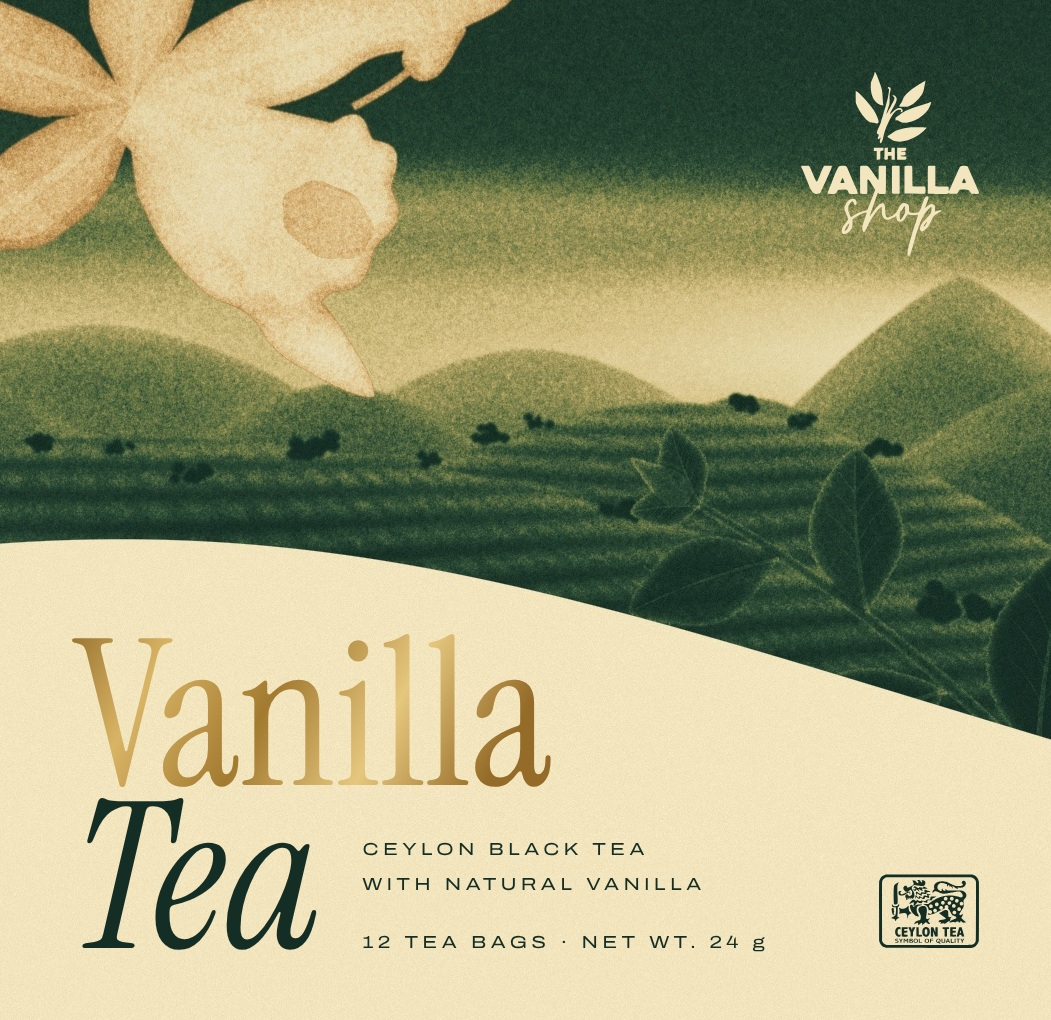
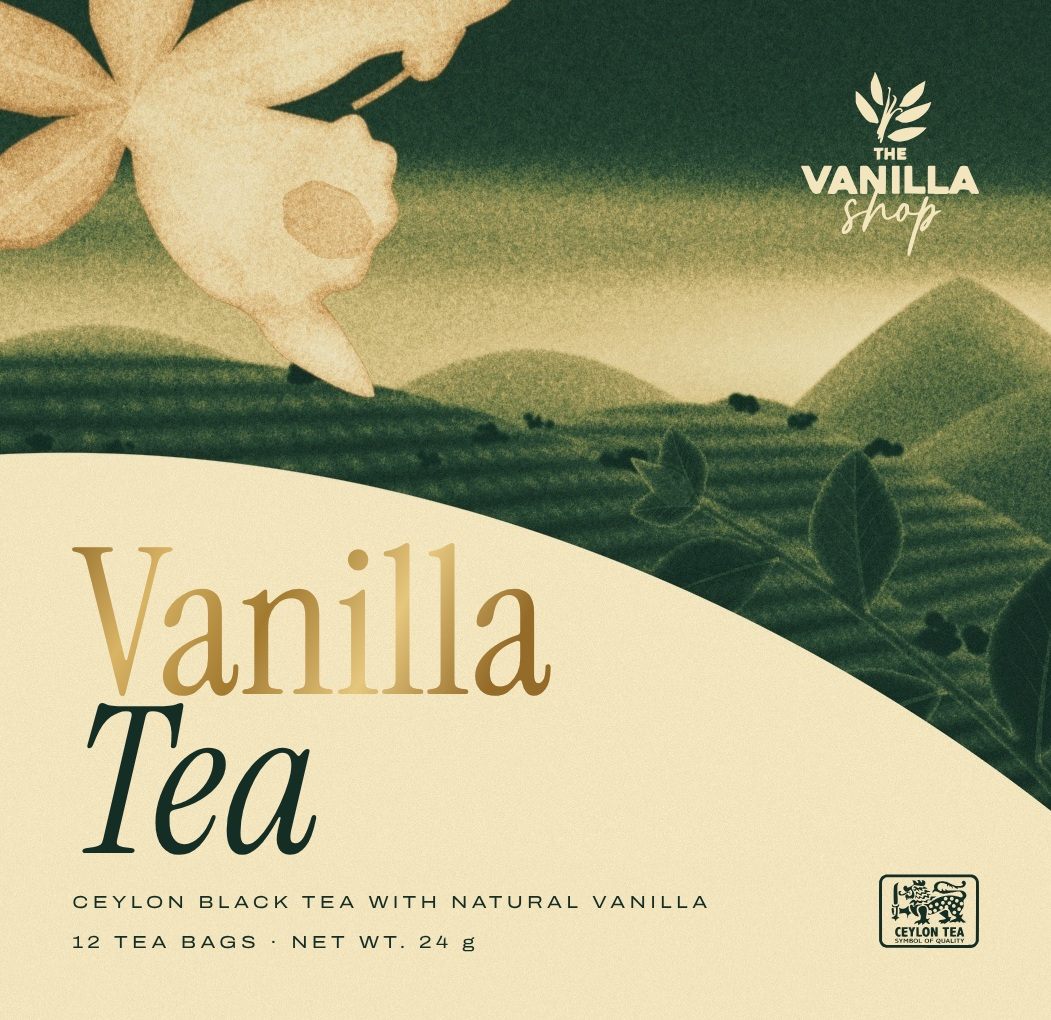
Tea: a longer, friendlier curve shaped around the stacked name
The cream's edge starts higher on the left and sweeps down to the lower
right, after the reference; the stacked name sits under its shoulder with
at least 2.4 mm clear, the description and contents in two full-width lines
below, the lion on the bottom baseline. The near hill's rows follow it.

Claude-Session: https://claude.ai/code/session_01Psd6wLDi15Gf4F1fXEFmxS

diff --git a/vanilla-shop/studies/tea/bandsystem/estate_front.py b/vanilla-shop/studies/tea/bandsystem/estate_front.py
@@ -16,7 +16,7 @@ GREEN='#163F3D'; CREAM='#F4EEDF'
 LEAF=('<linearGradient id="leaf" x1="0" y1="0" x2="1" y2="0.3"><stop offset="0" stop-color="#8A6424"/><stop offset=".25" stop-color="#D9B465"/>'
       '<stop offset=".5" stop-color="#A27A30"/><stop offset=".75" stop-color="#E6C77E"/><stop offset="1" stop-color="#946B28"/></linearGradient>')
 def ss(t): t=np.clip(t,0,1); return t*t*(3-2*t)
-EDGE=np.array([(-3,45.5),(30,42.5),(52,51),(90.6,62.5)])                                       # one cubic sweep, like a hill's shoulder
+EDGE=np.array([(-3,38),(30,35.5),(64,48),(90.6,70)])                                           # high and calm over the name, a long sweep down to the right                                       # one cubic sweep, like a hill's shoulder
 _t=np.linspace(0,1,600)[:,None]; _c=(1-_t)**3*EDGE[0]+3*(1-_t)**2*_t*EDGE[1]+3*(1-_t)*_t**2*EDGE[2]+_t**3*EDGE[3]
 def edge(x):
     """face-mm y of the cream's top edge: high and level under the logo, falling away smoothly to the right"""
@@ -42,14 +42,13 @@ def overlay(x=8,top=False):
     lw=15.0; s_=lw/933; ink=lambda v:v*s_                                                       # logo ink: 6..927.6 x 6.3..957.9 of 933 x 963
     lg=f'<g transform="translate({FW-M-ink(927.6)+ink(0):.3f} {M-ink(6.3):.3f})">{logo(lw/2,963*s_/2,lw,CREAM)}</g>'
     ln=8.4; sl=ln/1211; lnx=FW-M-1206*sl; lny=base-890*sl                                          # lion ink: 6..1206 x 6..890 of 1211 x 895
-    # the name stacked: Vanilla over Tea, Tea on the bottom baseline; the facts in a small column beside Tea, its last
-    # line on the same baseline and its first line's capitals level with Tea's x-height (Instrument Serif metrics)
-    sz=17; vb=base-0.8*sz; cx_=x+20.7+3.5; xh=base-0.516*sz; first=xh+0.71*1.45; ld=2.9                                     # description as a tight pair; contents apart, on the baseline
+    # the name stacked under the curve's high shoulder, Vanilla over Tea; the description and contents beneath it in two
+    # full-width lines, the last on the bottom margin; the lion on that baseline in the corner the curve leaves open
+    sz=17; d1=base-3.3; tb=d1-1.03-3.6; vb=tb-0.78*sz
     return [f'<defs>{LEAF}</defs>', lg,
-            T('Vanilla',x+0.018*sz,vb,sz,'url(#leaf)','ISR'), T('Tea',x,base,sz,GREEN,'IS'),
-            T('CEYLON BLACK TEA',cx_,first,1.45,GREEN,'RW',tr=0.24),
-            T('WITH NATURAL VANILLA',cx_,first+ld,1.45,GREEN,'RW',tr=0.24),
-            T('12 TEA BAGS  ·  NET WT. 24 g',cx_,base,1.45,GREEN,'RW',tr=0.24),
+            T('Vanilla',x+0.018*sz,vb,sz,'url(#leaf)','ISR'), T('Tea',x,tb,sz,GREEN,'IS'),
+            T('CEYLON BLACK TEA WITH NATURAL VANILLA',x,d1,1.45,GREEN,'RW',tr=0.24),
+            T('12 TEA BAGS  ·  NET WT. 24 g',x,base,1.45,GREEN,'RW',tr=0.24),
             lion(lnx,lny,ln,GREEN)]
 if __name__=='__main__':
     import os; os.environ['NOSHOOT']='1'; import garden as G
